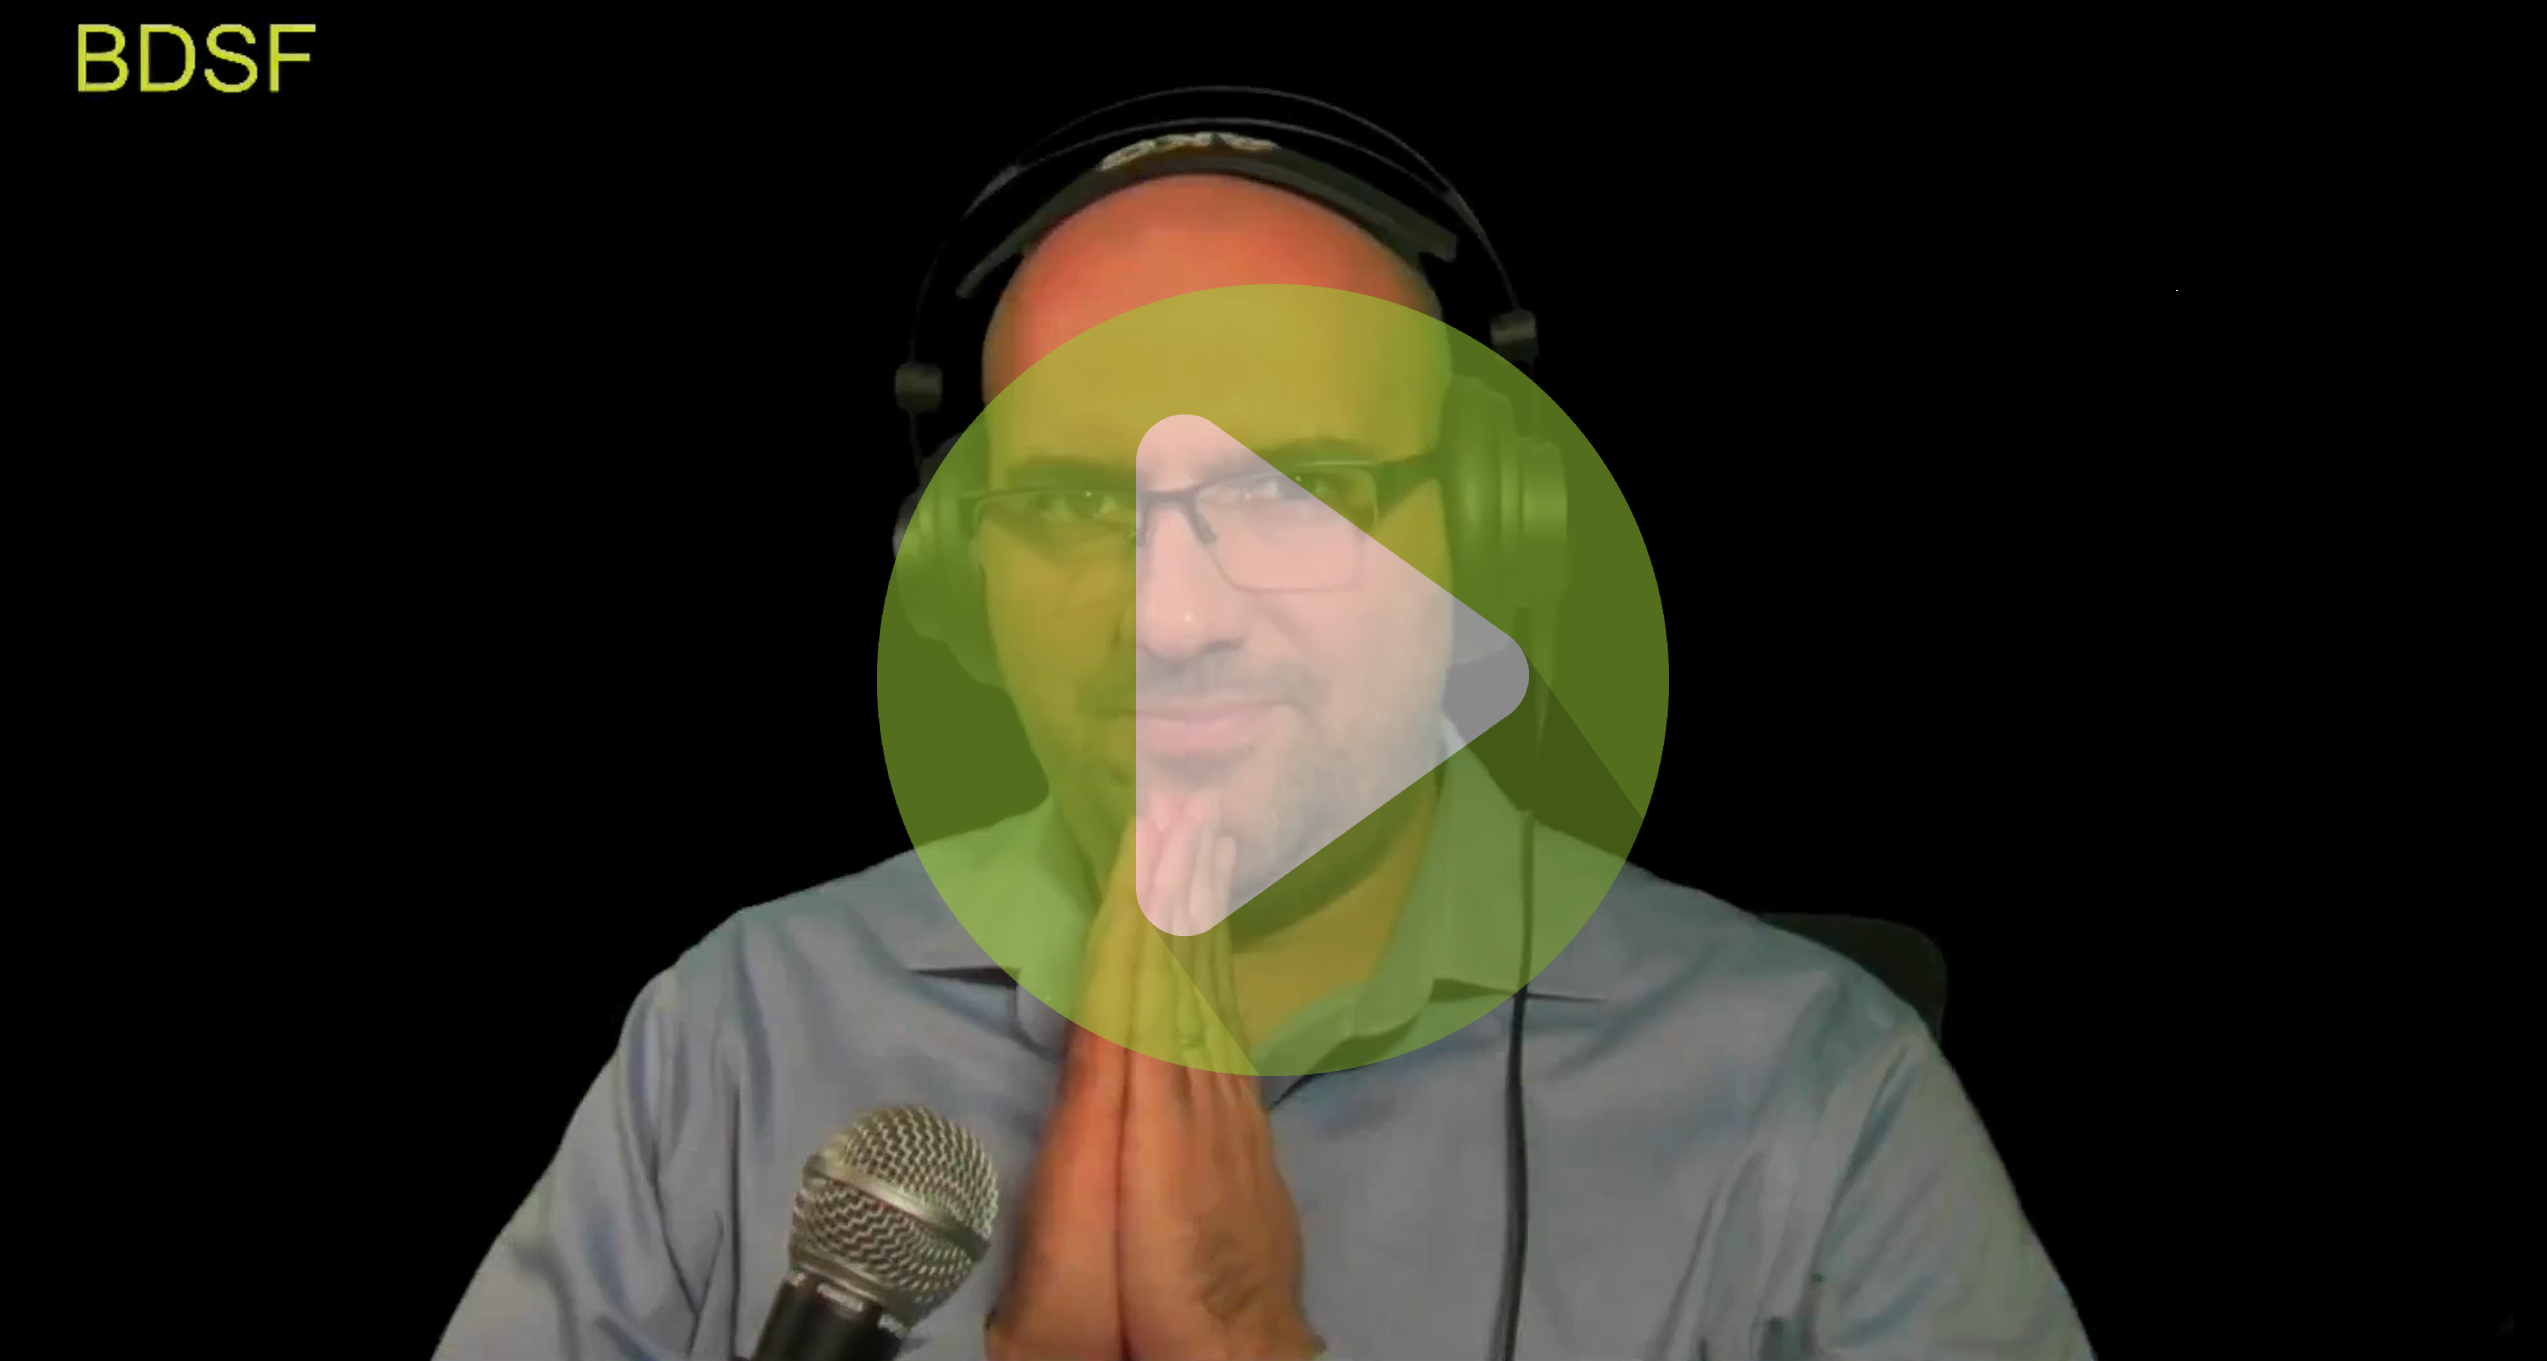
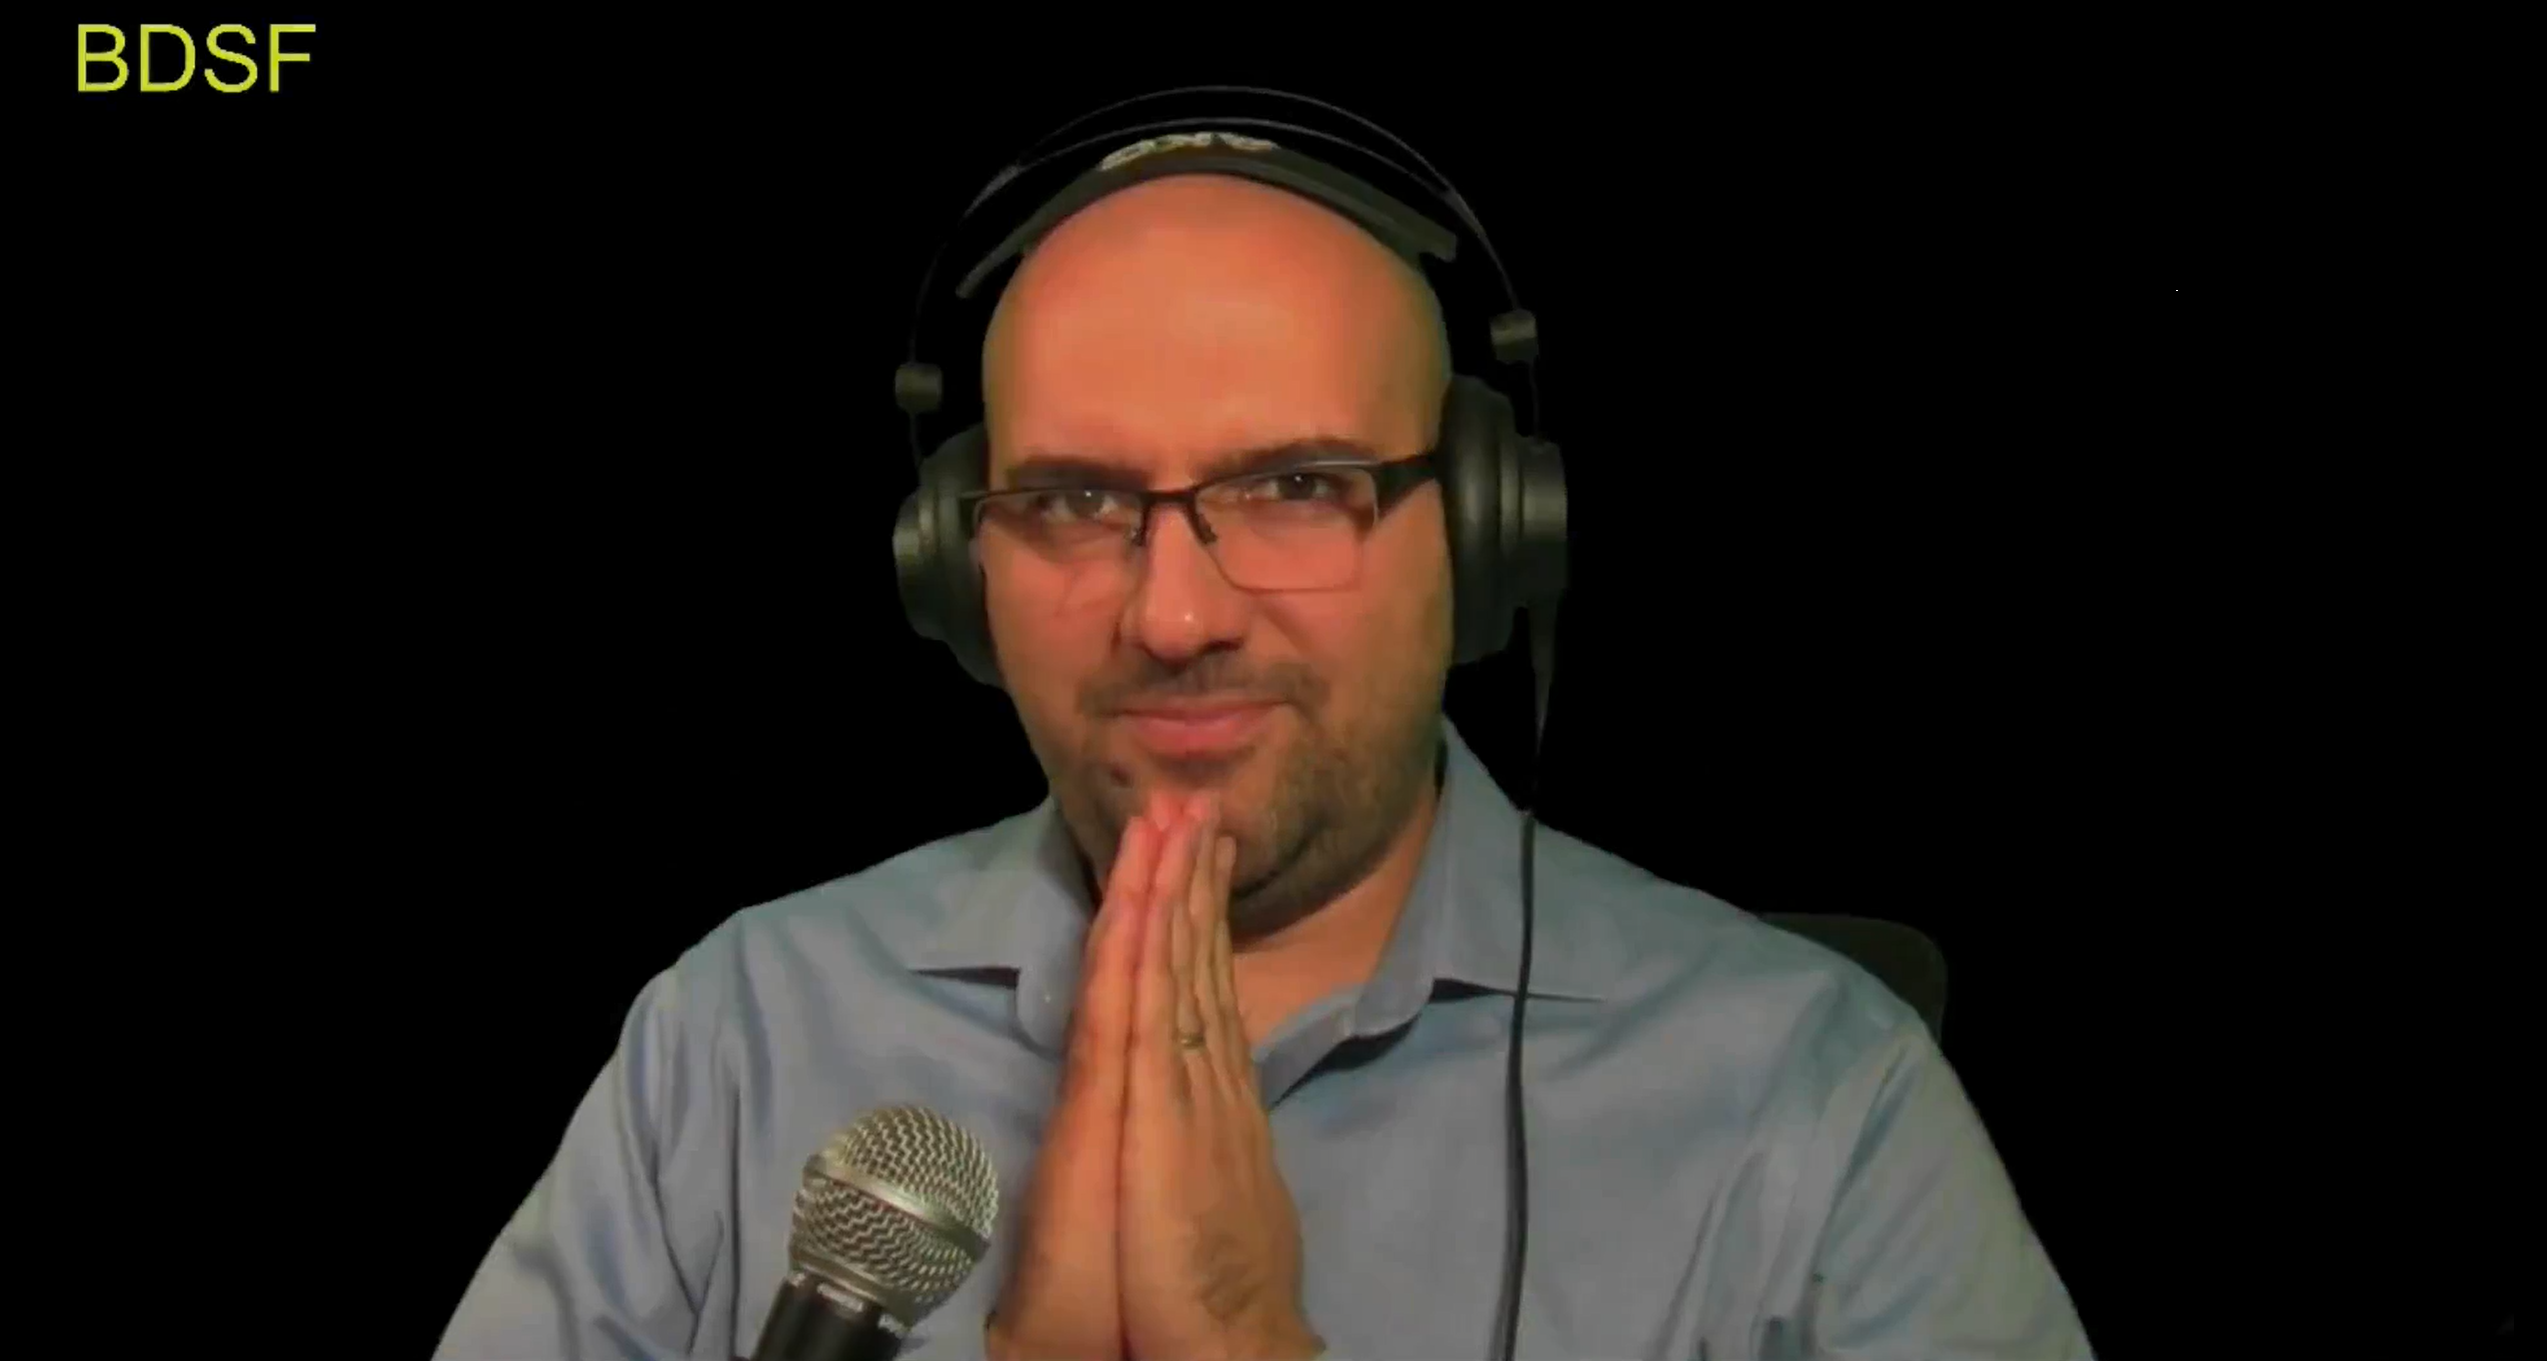
video green

Changed region(s): [[0.3412, 0.1852, 0.6824, 0.8024]]

diff --git a/ecourse-bdsf.html b/ecourse-bdsf.html
@@ -747,19 +747,31 @@
         <div class="text-center">
           <h3>Ready? Let's Get Started! 🚀</h3>
 
+
+
           <p>This course will get you off the ground on your own feet quickly & strongly!</p>  
 
 <!--           <div class="embed-responsive embed-responsive-16by9">
             <iframe class="embed-responsive-item" src="assets/videos/video_intro_bdsf.mp4" width="75%"></iframe> 
           </div>
  -->
-          <div onclick="play();" id="vidwrap"></div>
+<!--           <div onclick="play();" id="vidwrap"></div>
 
-          <script type="text/javascript">function play(){document.getElementById('vidwrap').innerHTML = '<iframe width="480" height="360" src="assets/videos/video_intro_bdsf.mp4" frameborder="0"></iframe>';}</script>
-            
-          
-          <a class="cta-btn" href="pricing.html">Apply Now</a>
-          <p style="font-size: 12px"><span><i class="bx bi-shield-check"></i> Start Learning for Free</span></p>        
+          <script type="text/javascript">function play(){document.getElementById('vidwrap').innerHTML = '<iframe width="480" height="360" src="assets/videos/video_intro_bdsf.mp4" frameborder="0"></iframe>';}</script> -->
+           
+          <section id="about" class="about">
+
+                <div class="col-lg-6 image-box align-self-baseline position-relative">   
+                  <div class="image-box position-relative">
+                   <a href="assets/videos/video_intro_bdsf.mp4" class="glightbox play-btn"></a>
+                   <img src="assets/img/cover_video.png" class="img-fluid" alt="" width="100%">
+                  </div>
+                </div>
+            <a class="cta-btn" href="pricing.html">Apply Now</a>
+            <p style="font-size: 12px"><span><i class="bx bi-shield-check"></i> Start Learning for Free</span></p>   
+          </section>
+
+     
         </div>
 
 
